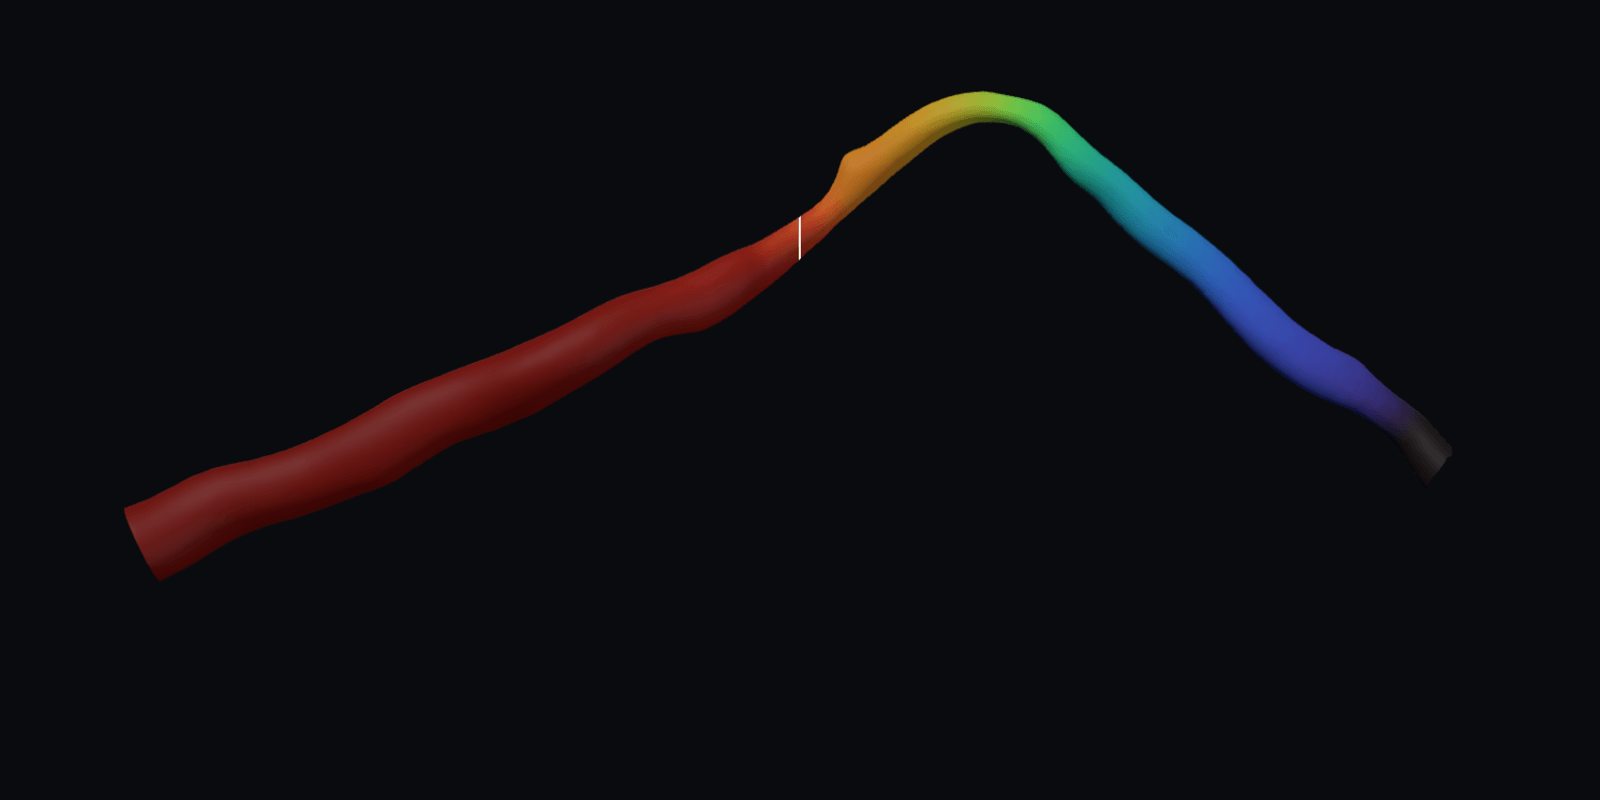
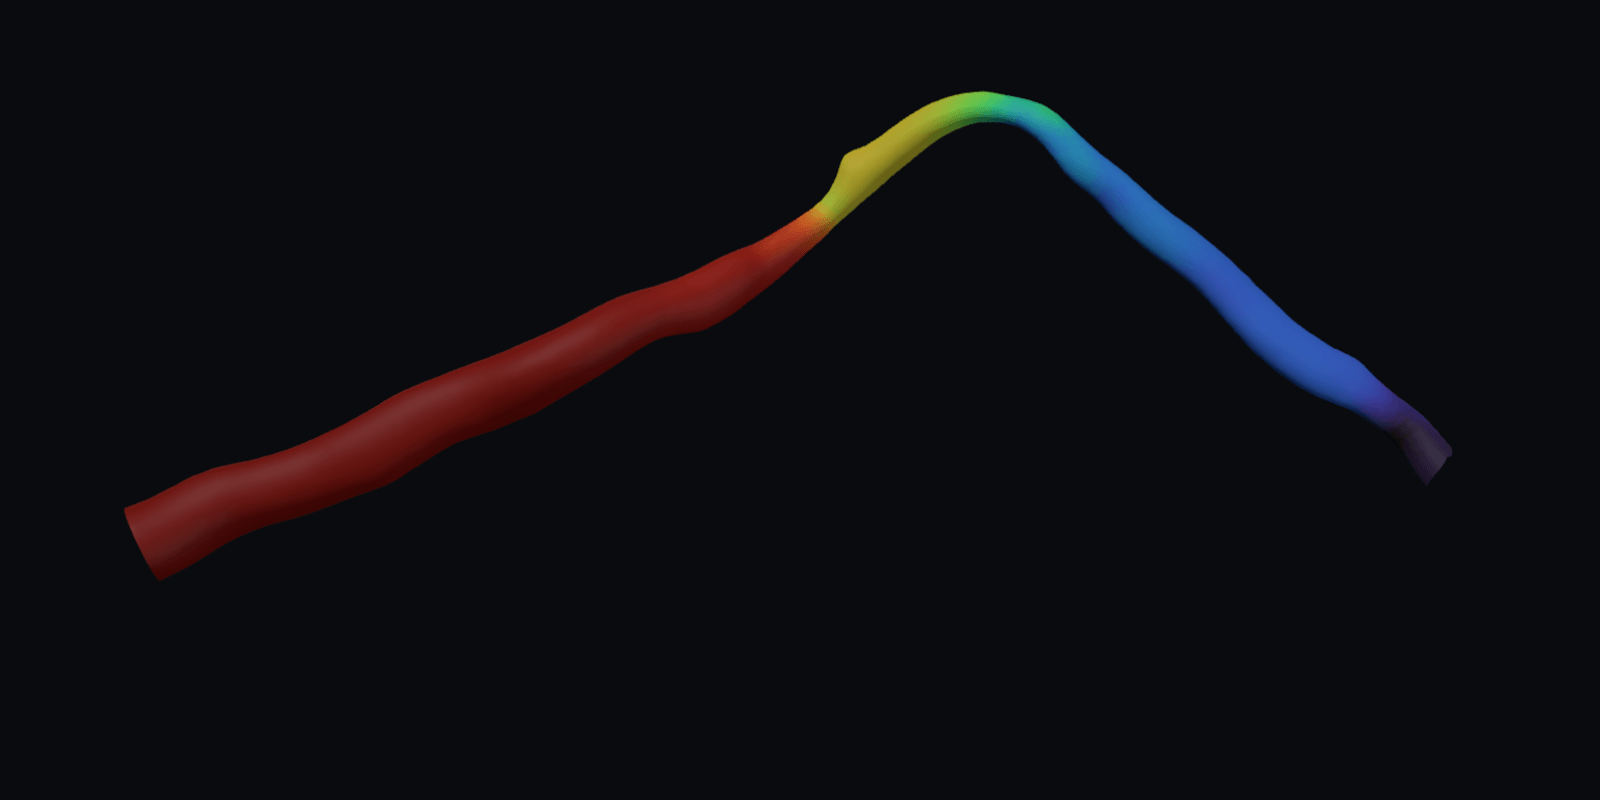
Review fixes: outputs items wrap after their comma, rings outside rows, a seam-free poster
The bolus outputs item "manuscript under revision (EAAI), first author"
was one nowrap link 353 px wide and overflowed a 375 px phone; items now
break only after a comma, never inside a unit. Focus rings on the
Updates and Method and metrics rows sit 2 px outside the row instead of
through the first glyph. The plate poster is rendered with the wipe at
its end, so no seam tick is baked into the vessel. The viewer's field
notes are sentences, so they set in the text face. Forced colors keep
the CFD curve stroke and stop multiplying the CT frame onto a forced
sheet. The two plates with a Retry control print only the fact. The wipe
caption's "left, right" clause also hides on the Error field. DESIGN.md
no longer says the quiet plate never drifts.

Changed region(s): [[0.5, 0.0938, 0.75, 0.3125], [0.8125, 0.4375, 0.9062, 0.5938]]

diff --git a/site/src/islands/PhaseScrubber.tsx b/site/src/islands/PhaseScrubber.tsx
@@ -70,7 +70,7 @@ export interface PhaseScrubberProps {
 
 const FPS = 6;
 /* The one sentence a failed plate prints (owner-approved wording, 2026-10-21). */
-const FAILED = 'The CT frames did not load. Reload the page to try again.';
+const FAILED = 'The CT frames did not load.'; /* Retry sits under it */
 const FIELDS: ImageField[] = ['pressure', 'wss'];
 /* The paper renders both fields on ParaView's cool-to-warm map; the site's diverging map is the same Moreland ramp. */
 const RAMP = cssGradient('diverging', 16, 'to right');

diff --git a/site/src/islands/SpectrogramDevelop.tsx b/site/src/islands/SpectrogramDevelop.tsx
@@ -75,7 +75,7 @@ export interface SpectrogramDevelopProps {
 
 const VIRIDIS_BAR = cssGradient('viridis', 16, 'to right');
 /* The one sentence a failed plate prints (owner-approved wording, 2026-10-21). */
-const FAILED = 'The recording did not load. Reload the page to try again.';
+const FAILED = 'The recording did not load.'; /* Retry sits under it */
 
 type Status = 'loading' | 'ready' | 'error';
 type Phase = 'latent' | 'developing' | 'done';

diff --git a/site/src/islands/vessel/viewer.module.css b/site/src/islands/vessel/viewer.module.css
@@ -386,8 +386,9 @@
   right: 0.75rem;
   bottom: 2.25rem;
   margin: 0;
-  font-family: var(--font-mono);
-  font-size: var(--size-mono);
+  font-family: var(--font-text);
+  font-style: italic;
+  font-size: 0.9rem;
   line-height: 1.35;
   font-variant-numeric: tabular-nums;
   color: var(--ink-2);

diff --git a/site/src/islands/image/scrubber.module.css b/site/src/islands/image/scrubber.module.css
@@ -437,6 +437,9 @@
   .ramp {
     forced-color-adjust: none;
   }
+  .frame {
+    mix-blend-mode: normal; /* multiplied onto a forced black sheet, the frame disappeared */
+  }
   .segBtn[aria-pressed='true'] {
     outline: 2px solid Highlight;
     outline-offset: -4px;

diff --git a/site/src/islands/vessel/ffr.module.css b/site/src/islands/vessel/ffr.module.css
@@ -167,4 +167,7 @@
   .swatchPino {
     forced-color-adjust: none;
   }
+  .cfd {
+    stroke: CanvasText; /* the bone stroke vanished on a white forced canvas */
+  }
 }

diff --git a/DESIGN.md b/DESIGN.md
@@ -389,7 +389,7 @@ The first thing on home. A two-column grid on the left edge (a 6rem portrait col
 ### Plate (`components/home/Plate.astro`, `components/home/HeroViewer.tsx`)
 The one live proof on home, directly under the identity block.
 - A `Frame plate` holding the VesselViewer in quiet mode, hydrated `client:visible` and preloading nothing; height `min(44vh, 30rem)`, at least 18rem. Under 900px it goes portrait (3/4, at most 64svh). Under the canvas sits the poster, a server-rendered still of the same plate (`scripts/vessel-still.mjs`; 2:1, and 3:4 upright on phones), so the plate is never a blank film before the vessel draws or without JS; it leaves once the viewer is past loading.
-- **Quiet viewer:** the pressure field only, the CFD | PINO wipe handle centred (a two-state toggle on frames under 640px), the vertical colorbar with five ticks, the develop once (snapped under reduced motion); no field toggle, no orbit, no drift, no corner readouts, no FFR curve; the vessel is cropped at the distal FFR probe plane and fitted to its bounding box.
+- **Quiet viewer:** the pressure field only, the CFD | PINO wipe handle centred (a two-state toggle on frames under 640px), the vertical colorbar with five ticks, the develop once (snapped under reduced motion); no field toggle, no orbit, no corner readouts, no FFR curve (the idle drift stays on); the vessel is cropped at the distal FFR probe plane and fitted to its bounding box.
 - **Caption (Astro, so the numbers are in the server HTML):** one mono line in ink-2 from `plateCaptionItems`, `PINO-DEMO-01 · 8 649 nodes · FFR CFD 0.83 · PINO 0.82`, each value pair a nowrap item (Revision 2b: case id, node count and FFR only; the 1.78 s and the 35-minute CFD bound are in proof line 2 and the sentence below, so the plate carries no timing line; `timingItems` / `timingLine` feed the Flow chapter's mono header line and the agent files); then, 0.35rem below, one STIX line (1rem, ink-2, 62ch), `plateSentence`: "The same vessel solved twice. CFD took up to 35 minutes on 64 cores. The neural operator took 1.78 seconds. Slide or toggle to compare." (numbers interpolated). No link: the Simulation row links to the Flow chapter.
 - **Data:** the quiet plate downloads the manifest and `vessel.bin.gz` only (geometry, indices, both pressure fields, region; the error field is derived); the speed arrays are a second file the home never requests.
 
@@ -451,7 +451,7 @@ The current frame of J1's Case 1 on a light-box sheet inside the film plate, wit
 Inherit color, 1px underline in ink-3 offset 0.18em, turning signal on hover over 150ms. Link rows (identity, footer) use a 1px bottom border instead of an underline. No quiet in-page arrow links remain, and summary and closing lines (proof line 3, the research closing row) are plain text.
 
 ### Motion
-Four durations and one curve: 150ms for state changes, 250ms for reveals, 400ms for the two-state wipe tween, 1780ms for the develop, all on `cubic-bezier(0.16, 1, 0.3, 1)`. The develop runs once, on first visibility. The chapter viewer's idle drift (one revolution per 60s) pauses offscreen, on `document.hidden` and during drags; the quiet plate never drifts. Reveals: a disclosure a reader toggles (the home Updates row, Method and metrics, the CV's phone folds) eases its height over 250ms, while one a script or the browser opens (on load, by an anchor, by find in page) snaps; the CV photo dialog opens at its final size and fades in over 250ms and out over 150ms with its flat dim; the viewer's canvas, wipe handle and segmented controls fade in over 250ms at ready, inside the develop's delay. Nothing scales, slides, blurs or staggers. Under `prefers-reduced-motion` the develop snaps (Replay included), the drift stops, folds snap, carets flip without turning and hover transforms are removed. Nothing loops for its own sake.
+Four durations and one curve: 150ms for state changes, 250ms for reveals, 400ms for the two-state wipe tween, 1780ms for the develop, all on `cubic-bezier(0.16, 1, 0.3, 1)`. The develop runs once, on first visibility. The chapter viewer's idle drift (one revolution per 60s) pauses offscreen, on `document.hidden` and during drags; the quiet plate drifts too. Reveals: a disclosure a reader toggles (the home Updates row, Method and metrics, the CV's phone folds) eases its height over 250ms, while one a script or the browser opens (on load, by an anchor, by find in page) snaps; the CV photo dialog opens at its final size and fades in over 250ms and out over 150ms with its flat dim; the viewer's canvas, wipe handle and segmented controls fade in over 250ms at ready, inside the develop's delay. Nothing scales, slides, blurs or staggers. Under `prefers-reduced-motion` the develop snaps (Replay included), the drift stops, folds snap, carets flip without turning and hover transforms are removed. Nothing loops for its own sake.
 
 ### Performance
 - The quiet home plate loads `manifest.json` and `vessel.bin.gz` (uint16 quantized, zigzag delta, planar bytes, then gzip -9; `scripts/quantize-vessel.mjs`), inflated in the browser with `DecompressionStream` (the raw `vessel.bin` is the fallback). GitHub Pages sends `application/octet-stream` uncompressed, so the precompressed file is what keeps the plate near its gzip size on the wire. The speed arrays are `vessel-speed.bin(.gz)`, requested by /research the first time Speed or Error is chosen.

diff --git a/CLAUDE.md b/CLAUDE.md
@@ -36,7 +36,7 @@ The owner writes in Korean; the site stays English. Recipes for routine edits ar
 - Never state a speed-up above "about 1,000x", never convert the CFD bound to hours, never extrapolate it to fewer cores.
 - Never fabricate testimonials, press, citation counts or download numbers.
 - Join value and unit with U+202F; use a true minus; write ranges with an en dash and one trailing unit.
-- A plate prints nothing while it loads, and a plate that fails prints one of four approved sentences: "The vessel did not load. Reload the page to try again." (likewise "The pressure curve", "The recording", "The CT frames"). Never a file name, URL or status code in a plate; the reason goes to the console.
+- A plate prints nothing while it loads, and a plate that fails prints one of four approved sentences: "The vessel did not load. Reload the page to try again." (likewise "The pressure curve"); the two plates that carry a Retry control print only the fact ("The recording did not load.", "The CT frames did not load."). Never a file name, URL or status code in a plate; the reason goes to the console.
 
 ## Layout rules
 
